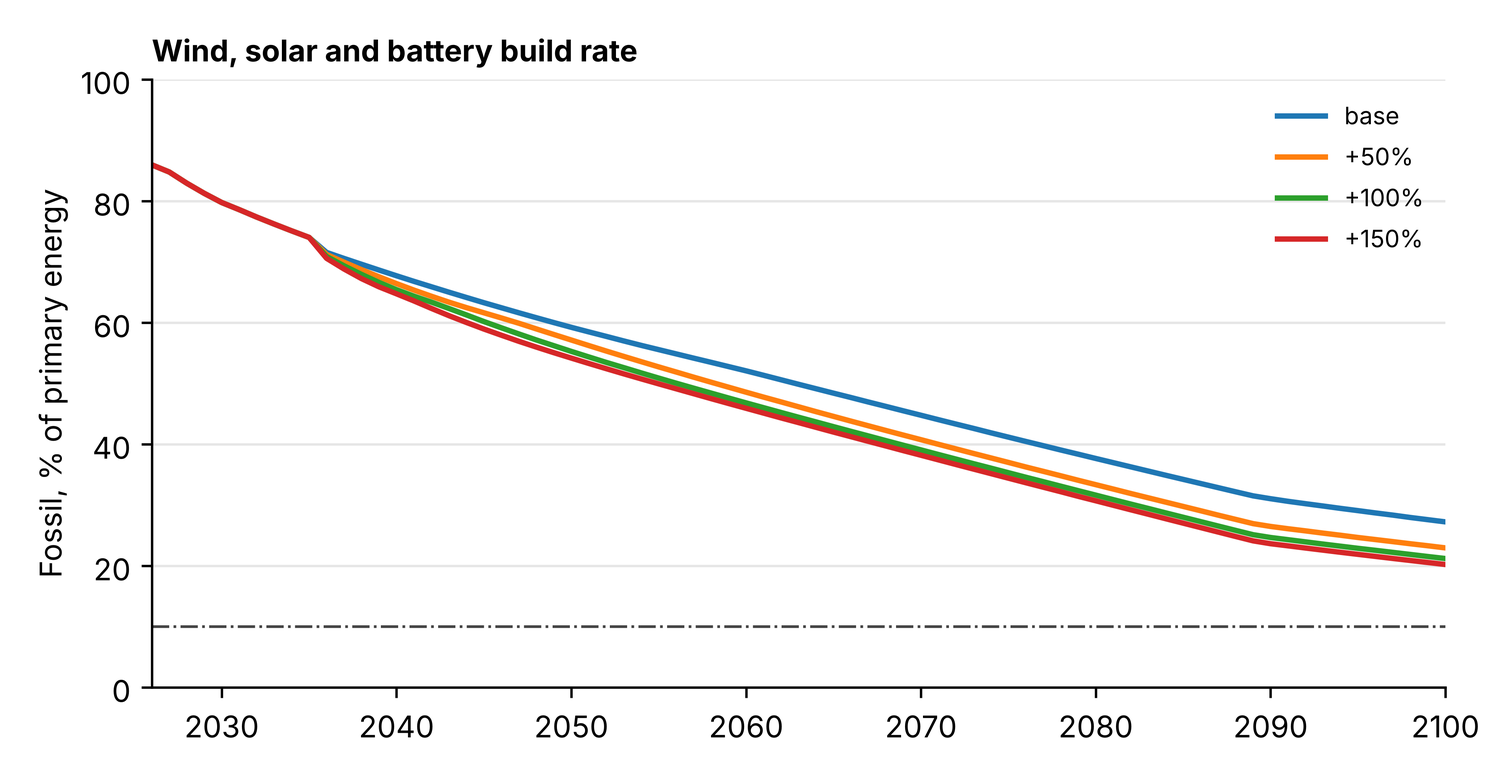
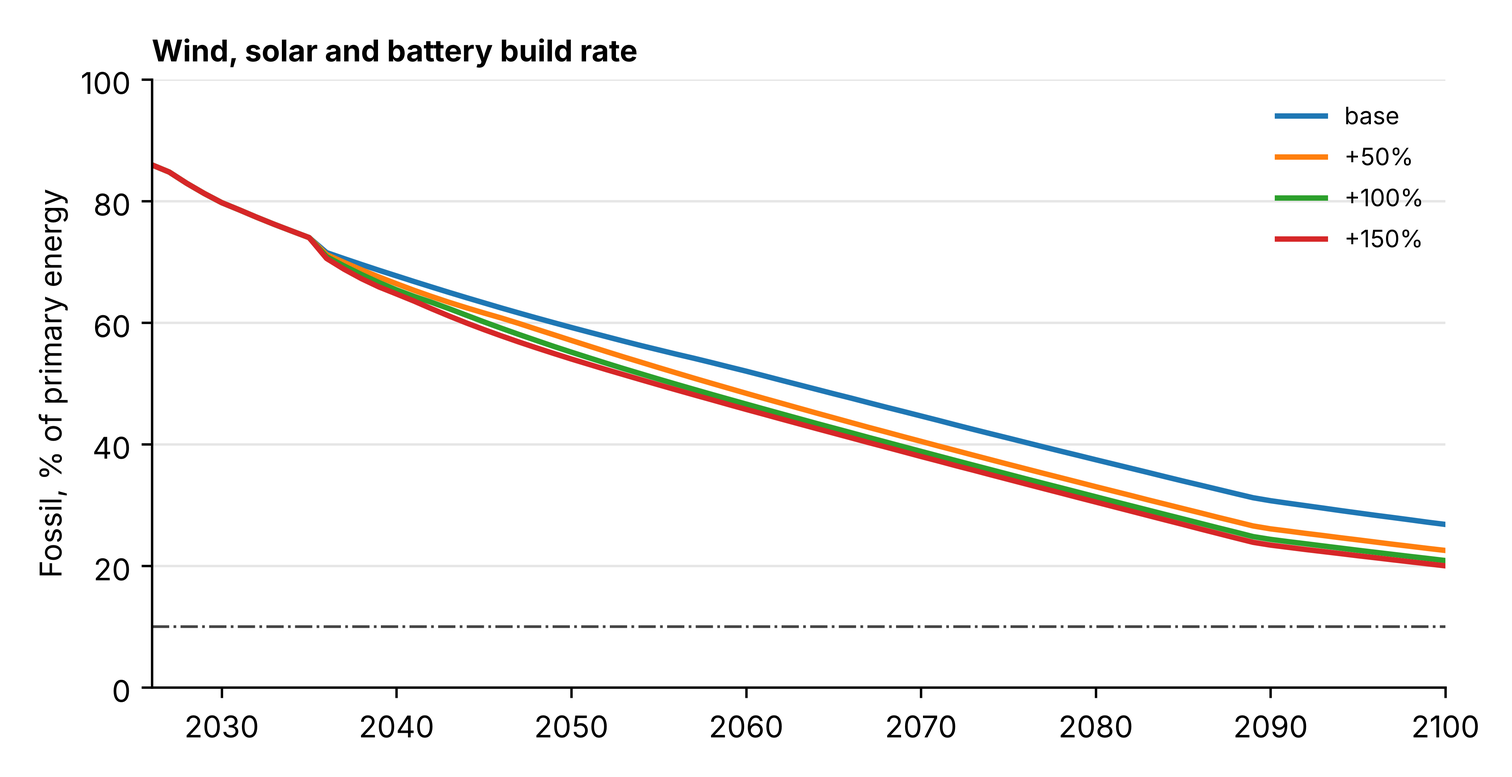
Flat underlying growth: rerun results, changelog, GSS-2 rows dated 12 November, Figures 6 and 8
Claude-Session: https://claude.ai/code/session_011KZyoeWRXAGqHFgRpVqSJt

diff --git a/analysis/output/interconnector_sensitivity.md b/analysis/output/interconnector_sensitivity.md
@@ -1,29 +1,29 @@
 | pathway          |   ic_availability_pct |   year |   ic_capacity_GW |   import_TWh |   export_TWh |   export_wind_solar_TWh |   dispatch_down_pct |   firm_generation_TWh |   fossil_primary_TWh |   fossil_share_primary_pct |   gas_annual_TWh_GCV |   gas_worst_day_GWh |   gas_worst_day_power_GWh |   gas_supply_GWh_per_day |   gas_days_short |   first_gas_shortfall_year |
 |:-----------------|----------------------:|-------:|-----------------:|-------------:|-------------:|------------------------:|--------------------:|----------------------:|---------------------:|---------------------------:|---------------------:|--------------------:|--------------------------:|-------------------------:|-----------------:|---------------------------:|
-| EirGrid_Extended |                     0 |   2026 |             1.45 |          0   |          0   |                     0   |                15.2 |                  25.6 |                170.8 |                       86   |                 70.2 |                 394 |                       247 |                      459 |              0   |                       2031 |
-| EirGrid_Extended |                     0 |   2035 |             2.9  |          0   |          0   |                     0   |                24.7 |                  19.2 |                147.2 |                       74   |                 59.5 |                 528 |                       402 |                      495 |              0.9 |                       2031 |
-| EirGrid_Extended |                     0 |   2050 |             2.9  |          0   |          0   |                     0   |                32.1 |                  13   |                117.4 |                       59.2 |                 45.9 |                 692 |                       573 |                      488 |              7.6 |                       2031 |
-| EirGrid_Extended |                     0 |   2075 |             2.9  |          0   |          0   |                     0   |                42.1 |                  12.1 |                 84.2 |                       41.2 |                 39.4 |                 970 |                       894 |                      485 |             16.2 |                       2031 |
-| EirGrid_Extended |                    70 |   2026 |             1.45 |          6.8 |          0.5 |                     0.4 |                15.2 |                  19.3 |                159.2 |                       85.5 |                 56.8 |                 345 |                       198 |                      459 |              0   |                       2042 |
-| EirGrid_Extended |                    70 |   2035 |             2.9  |          9.1 |          2.3 |                     2.3 |                21.7 |                  10.9 |                132.4 |                       72.5 |                 41.8 |                 430 |                       304 |                      495 |              0   |                       2042 |
-| EirGrid_Extended |                    70 |   2050 |             2.9  |          3.8 |          6.2 |                     6.2 |                26.8 |                  10.6 |                114   |                       59   |                 38.3 |                 594 |                       475 |                      488 |              1.4 |                       2042 |
-| EirGrid_Extended |                    70 |   2075 |             2.9  |          2   |          8.1 |                     8.1 |                38.2 |                  12   |                 83.6 |                       41.4 |                 33.5 |                 828 |                       752 |                      485 |              8.1 |                       2042 |
-| EirGrid_Extended |                   100 |   2026 |             1.45 |          9.1 |          0.6 |                     0.4 |                15.2 |                  17.1 |                155.1 |                       85.3 |                 52.1 |                 324 |                       177 |                      459 |              0   |                       2046 |
-| EirGrid_Extended |                   100 |   2035 |             2.9  |         12   |          3   |                     3   |                20.7 |                   8.2 |                127.6 |                       71.9 |                 36.4 |                 388 |                       262 |                      495 |              0   |                       2046 |
-| EirGrid_Extended |                   100 |   2050 |             2.9  |          5.2 |          8.6 |                     8.6 |                24.5 |                   9.5 |                112.2 |                       58.7 |                 35.2 |                 534 |                       431 |                      488 |              0.8 |                       2046 |
-| EirGrid_Extended |                   100 |   2075 |             2.9  |          2.8 |         11.4 |                    11.4 |                36.4 |                  11.7 |                 82.6 |                       41.2 |                 31.2 |                 766 |                       691 |                      485 |              6.2 |                       2046 |
-| Historical_Trend |                     0 |   2026 |             1.45 |          0   |          0   |                     0   |                15.2 |                  25.6 |                170.8 |                       86   |                 70.2 |                 394 |                       247 |                      459 |              0   |                       2037 |
-| Historical_Trend |                     0 |   2035 |             2.9  |          0   |          0   |                     0   |                18.6 |                  19.9 |                154.6 |                       78.1 |                 61.1 |                 486 |                       352 |                      495 |              0   |                       2037 |
-| Historical_Trend |                     0 |   2050 |             2.9  |          0   |          0   |                     0   |                20   |                  18.5 |                141.8 |                       69.8 |                 55.9 |                 588 |                       452 |                      488 |              2.5 |                       2037 |
-| Historical_Trend |                     0 |   2075 |             2.9  |          0   |          0   |                     0   |                22.7 |                  21   |                129.5 |                       59.9 |                 56.9 |                 767 |                       655 |                      485 |             12.1 |                       2037 |
-| Historical_Trend |                    70 |   2026 |             1.45 |          6.8 |          0.5 |                     0.4 |                15.2 |                  19.3 |                159.2 |                       85.5 |                 56.8 |                 345 |                       198 |                      459 |              0   |                       2050 |
-| Historical_Trend |                    70 |   2035 |             2.9  |         10.6 |          1.8 |                     1.8 |                15.4 |                  10   |                136.7 |                       76.5 |                 40.7 |                 387 |                       254 |                      495 |              0   |                       2050 |
-| Historical_Trend |                    70 |   2050 |             2.9  |          7.6 |          3.8 |                     3.8 |                14.8 |                  11.9 |                130.1 |                       68.5 |                 41.1 |                 490 |                       353 |                      488 |              0.1 |                       2050 |
-| Historical_Trend |                    70 |   2075 |             2.9  |          6.4 |          4.2 |                     4.2 |                18.9 |                  15.9 |                120.6 |                       58.7 |                 44.3 |                 668 |                       556 |                      485 |              4.3 |                       2050 |
-| Historical_Trend |                   100 |   2026 |             1.45 |          9.1 |          0.6 |                     0.4 |                15.2 |                  17.1 |                155.1 |                       85.3 |                 52.1 |                 324 |                       177 |                      459 |              0   |                       2056 |
-| Historical_Trend |                   100 |   2035 |             2.9  |         13.7 |          2.2 |                     2.2 |                14.8 |                   7   |                131.4 |                       76   |                 34.9 |                 345 |                       212 |                      495 |              0   |                       2056 |
-| Historical_Trend |                   100 |   2050 |             2.9  |         10.2 |          5.1 |                     5.1 |                12.8 |                   9.5 |                126   |                       67.9 |                 36.2 |                 448 |                       311 |                      488 |              0   |                       2056 |
-| Historical_Trend |                   100 |   2075 |             2.9  |          8.7 |          5.8 |                     5.8 |                17.3 |                  13.8 |                117.1 |                       58.1 |                 39.6 |                 626 |                       514 |                      485 |              1.7 |                       2056 |
+| EirGrid_Extended |                     0 |   2026 |             1.45 |          0   |          0   |                     0   |                15.2 |                  25.6 |                170.8 |                       86   |                 70.2 |                 394 |                       247 |                      459 |              0   |                       2033 |
+| EirGrid_Extended |                     0 |   2035 |             2.9  |          0   |          0   |                     0   |                24.7 |                  19.2 |                146.9 |                       74   |                 59.2 |                 513 |                       383 |                      495 |              0.2 |                       2033 |
+| EirGrid_Extended |                     0 |   2050 |             2.9  |          0   |          0   |                     0   |                32   |                  13   |                117.2 |                       59.2 |                 45.8 |                 664 |                       544 |                      488 |              6   |                       2033 |
+| EirGrid_Extended |                     0 |   2075 |             2.9  |          0   |          0   |                     0   |                41.9 |                  11.9 |                 83.8 |                       41   |                 39   |                 919 |                       843 |                      485 |             14.3 |                       2033 |
+| EirGrid_Extended |                    70 |   2026 |             1.45 |          6.8 |          0.5 |                     0.4 |                15.2 |                  19.3 |                159.2 |                       85.5 |                 56.8 |                 345 |                       198 |                      459 |              0   |                       2044 |
+| EirGrid_Extended |                    70 |   2035 |             2.9  |          9.1 |          2.4 |                     2.4 |                21.6 |                  10.9 |                132.1 |                       72.4 |                 41.5 |                 415 |                       284 |                      495 |              0   |                       2044 |
+| EirGrid_Extended |                    70 |   2050 |             2.9  |          3.8 |          6.1 |                     6.1 |                26.8 |                  10.6 |                113.8 |                       59   |                 38.2 |                 565 |                       446 |                      488 |              1   |                       2044 |
+| EirGrid_Extended |                    70 |   2075 |             2.9  |          2   |          8   |                     8   |                38.1 |                  11.8 |                 83.2 |                       41.2 |                 33.1 |                 776 |                       701 |                      485 |              7.2 |                       2044 |
+| EirGrid_Extended |                   100 |   2026 |             1.45 |          9.1 |          0.6 |                     0.4 |                15.2 |                  17.1 |                155.1 |                       85.3 |                 52.1 |                 324 |                       177 |                      459 |              0   |                       2048 |
+| EirGrid_Extended |                   100 |   2035 |             2.9  |         12   |          3   |                     3   |                20.6 |                   8.1 |                127.2 |                       71.8 |                 36.1 |                 372 |                       242 |                      495 |              0   |                       2048 |
+| EirGrid_Extended |                   100 |   2050 |             2.9  |          5.2 |          8.5 |                     8.5 |                24.6 |                   9.5 |                112   |                       58.7 |                 35   |                 507 |                       404 |                      488 |              0.2 |                       2048 |
+| EirGrid_Extended |                   100 |   2075 |             2.9  |          2.8 |         11.3 |                    11.3 |                36.3 |                  11.5 |                 82.1 |                       41   |                 30.8 |                 715 |                       640 |                      485 |              4.5 |                       2048 |
+| Historical_Trend |                     0 |   2026 |             1.45 |          0   |          0   |                     0   |                15.2 |                  25.6 |                170.8 |                       86   |                 70.2 |                 394 |                       247 |                      459 |              0   |                       2039 |
+| Historical_Trend |                     0 |   2035 |             2.9  |          0   |          0   |                     0   |                18.6 |                  19.9 |                154.4 |                       78.1 |                 61   |                 474 |                       343 |                      495 |              0   |                       2039 |
+| Historical_Trend |                     0 |   2050 |             2.9  |          0   |          0   |                     0   |                20   |                  18.5 |                141.5 |                       69.8 |                 55.7 |                 557 |                       426 |                      488 |              1.5 |                       2039 |
+| Historical_Trend |                     0 |   2075 |             2.9  |          0   |          0   |                     0   |                22.7 |                  21.1 |                129.2 |                       59.9 |                 56.6 |                 702 |                       590 |                      485 |              8.8 |                       2039 |
+| Historical_Trend |                    70 |   2026 |             1.45 |          6.8 |          0.5 |                     0.4 |                15.2 |                  19.3 |                159.2 |                       85.5 |                 56.8 |                 345 |                       198 |                      459 |              0   |                       2055 |
+| Historical_Trend |                    70 |   2035 |             2.9  |         10.6 |          1.8 |                     1.8 |                15.4 |                  10   |                136.5 |                       76.5 |                 40.5 |                 376 |                       244 |                      495 |              0   |                       2055 |
+| Historical_Trend |                    70 |   2050 |             2.9  |          7.6 |          3.8 |                     3.8 |                14.8 |                  11.9 |                129.8 |                       68.4 |                 40.9 |                 458 |                       328 |                      488 |              0   |                       2055 |
+| Historical_Trend |                    70 |   2075 |             2.9  |          6.3 |          4.2 |                     4.2 |                18.9 |                  16   |                120.2 |                       58.6 |                 44.1 |                 603 |                       491 |                      485 |              1.8 |                       2055 |
+| Historical_Trend |                   100 |   2026 |             1.45 |          9.1 |          0.6 |                     0.4 |                15.2 |                  17.1 |                155.1 |                       85.3 |                 52.1 |                 324 |                       177 |                      459 |              0   |                       2063 |
+| Historical_Trend |                   100 |   2035 |             2.9  |         13.8 |          2.2 |                     2.2 |                14.7 |                   6.9 |                131.2 |                       75.9 |                 34.7 |                 334 |                       202 |                      495 |              0   |                       2063 |
+| Historical_Trend |                   100 |   2050 |             2.9  |         10.2 |          5.1 |                     5.1 |                12.8 |                   9.5 |                125.7 |                       67.9 |                 35.9 |                 416 |                       286 |                      488 |              0   |                       2063 |
+| Historical_Trend |                   100 |   2075 |             2.9  |          8.7 |          5.8 |                     5.8 |                17.3 |                  13.9 |                116.6 |                       58   |                 39.4 |                 561 |                       449 |                      485 |              0.8 |                       2063 |
 
 EirGrid_Extended: no main run in scenario_outputs/, 0% case not checked
 Historical_Trend: no main run in scenario_outputs/, 0% case not checked

diff --git a/analysis/output/sensitivity/sensitivity_tables.md b/analysis/output/sensitivity/sensitivity_tables.md
@@ -2,34 +2,34 @@
 
 | change   |   demand_TWh |   wind_GW |   solar_GW |   fossil_pct |   renewable_pct |   constraint_pct |   curtailment_pct |   wind_cf_pct |   solar_cf_pct |   firm_GW |
 |:---------|-------------:|----------:|-----------:|-------------:|----------------:|-----------------:|------------------:|--------------:|---------------:|----------:|
-| base     |         74   |      24.6 |       20.6 |         59.2 |            36.8 |                0 |              32.1 |          19.2 |            7.8 |      14.4 |
-| +50%     |         77.4 |      24.6 |       20.6 |         54.3 |            41.7 |                0 |              30.2 |          19.8 |            8   |      15.4 |
-| +100%    |         80.8 |      24.6 |       20.6 |         49.1 |            46.9 |                0 |              28.5 |          20.4 |            8.2 |      16.3 |
-| +150%    |         84.1 |      24.6 |       20.6 |         43.4 |            52.6 |                0 |              26.9 |          20.9 |            8.4 |      17.3 |
+| base     |         74   |      24.6 |       20.6 |         59.2 |            36.8 |                0 |              32   |          19.2 |            7.7 |      13.2 |
+| +50%     |         77.4 |      24.6 |       20.6 |         54.3 |            41.7 |                0 |              30.2 |          19.8 |            7.9 |      14.3 |
+| +100%    |         80.8 |      24.6 |       20.6 |         49   |            47   |                0 |              28.5 |          20.4 |            8.1 |      15.4 |
+| +150%    |         84.1 |      24.6 |       20.6 |         43.4 |            52.6 |                0 |              26.8 |          21   |            8.3 |      16.5 |
 
 ### Heat and transport electrification pace, 2100
 
 | change   |   demand_TWh |   wind_GW |   solar_GW |   fossil_pct |   renewable_pct |   constraint_pct |   curtailment_pct |   wind_cf_pct |   solar_cf_pct |   firm_GW |
 |:---------|-------------:|----------:|-----------:|-------------:|----------------:|-----------------:|------------------:|--------------:|---------------:|----------:|
-| base     |        128.8 |      58.3 |       56.6 |         27.2 |            68.8 |                0 |              48   |          15.2 |            5.5 |      24.9 |
-| +50%     |        132.3 |      58.3 |       56.6 |         19.8 |            76.2 |                0 |              47   |          15.5 |            5.5 |      26.8 |
-| +100%    |        132.6 |      58.3 |       56.6 |         16.5 |            79.5 |                0 |              47   |          15.6 |            5.5 |      27.5 |
-| +150%    |        130.6 |      58.3 |       56.6 |         16.2 |            79.8 |                0 |              47.8 |          15.4 |            5.4 |      27.2 |
+| base     |        128.8 |      58.3 |       56.6 |         26.8 |            69.2 |                0 |              47.8 |          15.2 |            5.4 |      21.8 |
+| +50%     |        132.3 |      58.3 |       56.6 |         19.4 |            76.6 |                0 |              46.8 |          15.6 |            5.4 |      24   |
+| +100%    |        132.6 |      58.3 |       56.6 |         16.1 |            79.9 |                0 |              46.8 |          15.6 |            5.4 |      24.8 |
+| +150%    |        130.6 |      58.3 |       56.6 |         15.7 |            80.3 |                0 |              47.5 |          15.4 |            5.3 |      24.6 |
 
 ### Wind, solar and battery build rate, 2050
 
 | change   |   demand_TWh |   wind_GW |   solar_GW |   fossil_pct |   renewable_pct |   constraint_pct |   curtailment_pct |   wind_cf_pct |   solar_cf_pct |   firm_GW |
 |:---------|-------------:|----------:|-----------:|-------------:|----------------:|-----------------:|------------------:|--------------:|---------------:|----------:|
-| base     |           74 |      24.6 |       20.6 |         59.2 |            36.8 |                0 |              32.1 |          19.2 |            7.8 |      14.4 |
-| +50%     |           74 |      29.7 |       26   |         57.1 |            38.9 |                0 |              41.1 |          16.7 |            6.6 |      14.3 |
-| +100%    |           74 |      34.7 |       31.4 |         55.3 |            40.7 |                0 |              48.6 |          14.8 |            5.6 |      14.2 |
-| +150%    |           74 |      39.8 |       36.8 |         54.2 |            41.8 |                0 |              54.8 |          13.2 |            4.9 |      14.1 |
+| base     |           74 |      24.6 |       20.6 |         59.2 |            36.8 |                0 |              32   |          19.2 |            7.7 |      13.2 |
+| +50%     |           74 |      29.7 |       26   |         57.1 |            38.9 |                0 |              41   |          16.8 |            6.5 |      13.1 |
+| +100%    |           74 |      34.7 |       31.4 |         55.1 |            40.9 |                0 |              48.5 |          14.8 |            5.6 |      13   |
+| +150%    |           74 |      39.8 |       36.8 |         54   |            42   |                0 |              54.7 |          13.2 |            4.9 |      12.9 |
 
 ### Wind, solar and battery build rate, 2100
 
 | change   |   demand_TWh |   wind_GW |   solar_GW |   fossil_pct |   renewable_pct |   constraint_pct |   curtailment_pct |   wind_cf_pct |   solar_cf_pct |   firm_GW |
 |:---------|-------------:|----------:|-----------:|-------------:|----------------:|-----------------:|------------------:|--------------:|---------------:|----------:|
-| base     |        128.8 |      58.3 |       56.6 |         27.2 |            68.8 |                0 |              48   |          15.2 |            5.5 |      24.9 |
-| +50%     |        128.8 |      80.2 |       80.1 |         22.9 |            73.1 |                0 |              61.6 |          11.7 |            4.1 |      24.5 |
-| +100%    |        128.8 |     102   |      103.6 |         21.2 |            74.8 |                0 |              69.8 |           9.5 |            3.2 |      24.1 |
-| +150%    |        128.8 |     123.9 |      127   |         20.2 |            75.8 |                0 |              75.2 |           7.9 |            2.7 |      23.6 |
+| base     |        128.8 |      58.3 |       56.6 |         26.8 |            69.2 |                0 |              47.8 |          15.2 |            5.4 |      21.8 |
+| +50%     |        128.8 |      80.2 |       80.1 |         22.5 |            73.5 |                0 |              61.4 |          11.7 |            4   |      21.4 |
+| +100%    |        128.8 |     102   |      103.6 |         20.9 |            75.1 |                0 |              69.7 |           9.5 |            3.1 |      21.1 |
+| +150%    |        128.8 |     123.9 |      127   |         20   |            76   |                0 |              75.1 |           8   |            2.6 |      20.5 |

diff --git a/CHANGELOG.md b/CHANGELOG.md
@@ -210,6 +210,51 @@ From Mark's review of the gas check (4 November). Gas supply only; no other resu
 
 Worst days are unchanged (393 in 2026; 648 and 593 in 2050). In 2035 the worst day is within 1% of supply on both pathways.
 
+## Underlying demand growth as flat load: 12 November 2026
+
+Change to the model (group decision, recorded in `CONTEXT.md`). Demand growth since 2026 that is neither heat-pump nor transport load is added as flat load, because most of it is data-centre demand. It scaled the recorded demand shape before, which overstated peak demand, firm capacity and the worst gas day. `GAMMA_FLAT_GROWTH=0` reproduces the earlier results. The fixed 4% import allowance stays in the headline fossil share (also in `CONTEXT.md`).
+
+Rerun: main pathways to 2100, EirGrid validation and GSS-2 prediction (with sigma interval ends and the 40% cover case), published network path after 2035, interconnector sensitivity, grid reinforcement study, sensitivity study, and the validation with the residual at zero. Figures 6 and 8 redrawn. Not rerun: the 2035 case on each weather year (22.3% to 28.5% in paper Section 6.2), Section 6.3 60% cover and EirGrid-order constraint (Table S6), the Table 9 rows for the residual, COP and firm efficiencies, the 45% offshore case, Figures 4, 5 and S2, and Supplementary S5 to S8. GSS-2 prediction rows dated 12 November added to `analysis/gss2_prediction_2035.csv`; earlier rows kept.
+
+| Result | Before | Now |
+|---|---|---|
+| Firm capacity, EirGrid_Extended 2035 / 2050 / 2100 (GW) | 11.1 / 14.4 / 24.9 | 10.5 / 13.2 / 21.8 |
+| Firm capacity, Historical_Trend 2035 / 2050 / 2075 (GW) | 10.0 / 12.3 / 16.3 | 9.7 / 11.5 / 14.6 |
+| Worst gas day, no flows, EirGrid_Extended 2035 / 2050 (GWh/d) | 528 / 692 | 513 / 664 |
+| Worst gas day, no flows, Historical_Trend 2035 / 2050 / 2075 (GWh/d) | 486 / 588 / 767 | 474 / 557 / 702 |
+| Worst gas day at 70% of interconnector capacity, EirGrid_Extended 2035 / 2050 (GWh/d) | 430 / 594 | 415 / 565 |
+| Same, Historical_Trend 2035 / 2050 / 2075 (GWh/d) | 387 / 490 / 668 | 376 / 458 / 603 |
+| Worst gas day at 100%, 2050, EirGrid_Extended / Historical_Trend (GWh/d) | 534 / 448 | 507 / 416 |
+| First gas shortfall, no flows / 70% / 100%, EirGrid_Extended | 2031 / 2042 / 2046 | 2033 / 2044 / 2048 |
+| Same, Historical_Trend | 2037 / 2050 / 2056 | 2039 / 2055 / 2063 |
+| First shortfall in the second-worst / median weather year, EirGrid_Extended | 2032 / 2035 | 2034 / 2037 |
+| Same, Historical_Trend | 2037 / 2042 | 2040 / 2045 |
+| First shortfall with 25 / 50 GWh/d more entry capacity, EirGrid_Extended | 2035 / 2037 | 2036 / 2039 |
+| Same, Historical_Trend | 2041 / 2044 | 2043 / 2047 |
+| Days short a year in 2050, EirGrid_Extended / Historical_Trend | 7.6 / 2.5 | 6.0 / 1.5 |
+| Dispatch down, EirGrid_Extended 2030 / 2036 / 2050 / 2100 (%) | 22.0 / 20.7 / 32.1 / 48.0 | 21.9 / 20.6 / 32.0 / 47.8 |
+| Dispatch down at 0% / 70% / 100% interconnector use, EirGrid_Extended 2050 (%) | 32.1 / 26.8 / 24.5 | 32.0 / 26.8 / 24.6 |
+| Wind and solar share of demand, EirGrid_Extended 2035 / 2050 / 2100 (%) | 63.5 / 75.1 / 81.5 | 63.6 / 74.9 / 81.1 |
+| Same, Historical_Trend 2050 / 2075 / 2100 (%) | 66.6 / 68.3 / 68.9 | 66.5 / 68.1 / 68.5 |
+| Fossil share of primary energy, EirGrid_Extended 2050 / 2100 (%) | 59.2 / 27.2 | 59.2 / 26.8 |
+| Same, Historical_Trend 2050 / 2075 (%) | 69.8 / 59.9 | unchanged |
+| Fossil share at 70% interconnector use, Historical_Trend 2050 (%) | 68.5 | 68.4 |
+| Firm fleet efficiency / peaking share, EirGrid_Extended 2050 (%) | 46.5 / 41 | 46.7 / 40 |
+| Electrolysis for firm plant on hydrogen, 2050, EirGrid_Extended / Historical_Trend (TWh) | 40.1 / 50.7 | 39.9 / 50.4 |
+| GSS-1 validation, Gamma minus EirGrid total, 2030 Initial / 2030 + 2.6 GW offshore / 2035 (points) | -4.5 / -3.1 / -0.2 | -4.6 / -3.2 / -0.1 |
+| Same at sigma interval ends | -3.9 to -4.9 / -2.6 to -3.5 / +0.8 to -0.9 | -4.1 to -5.1 / -2.7 to -3.5 / +0.8 to -0.9 |
+| Same with the residual at zero | -7.6 / -6.0 / -2.9 | -7.8 / -6.0 / -2.9 |
+| GSS-1 2035 with 40% cover, Gamma minus EirGrid (points) | -2.9 | unchanged |
+| GSS-2 prediction, published path, 100% ECP / with 4.7 GW offshore (%) | 29.9 (27.5-33.1) / 34.9 (33.9-36.1) | 29.9 (27.4-33.1) / 34.8 (33.9-36.1) |
+| Same, cover 40% (%) | 19.9 / 30.8 | 19.8 / 30.8 |
+| Published path after 2035, 2050: constraint / curtailment / total / fossil (%) | 18.2 / 18.9 / 37.1 / 61.6 | unchanged |
+| Delivered solar / wind, 2050, limits kept and removed (TWh) | 11.2 to 14.1 / 42.3 to 41.5 | 11.1 to 13.9 / 42.4 to 41.5 |
+| Fossil 2050 at IE headroom growth 0 / 1 / 2 / 4 / 7.3 %/yr, limits kept (%) | 61.9 / 61.4 / 61.0 / 60.4 / 59.8 | 61.9 / 61.4 / 61.0 / 60.4 / 59.7 |
+| Marginal yield at 7.3%/yr, next 10.5 GW / 10.5 GW after (TWh/GW) | 0.29 / 0.20 | 0.28 / 0.20 |
+| Electrification +150% / build +150%, fossil 2050 (%) | 43.4 / 54.2 | 43.4 / 54.0 |
+
+The headline "within 4.5 points of EirGrid" becomes 4.6 points: the 2030 Initial total is 12.96% against EirGrid's 17.6% (was 13.1%).
+
 ## Referee round 2: sensitivity switches and data tidy-up: 12 November 2026
 
 From the second referee review of the Phase 1 paper (methods and data). No published result changes: every switch is off by default, and the base run reproduces 59.2% and 69.8% fossil share in 2050.
